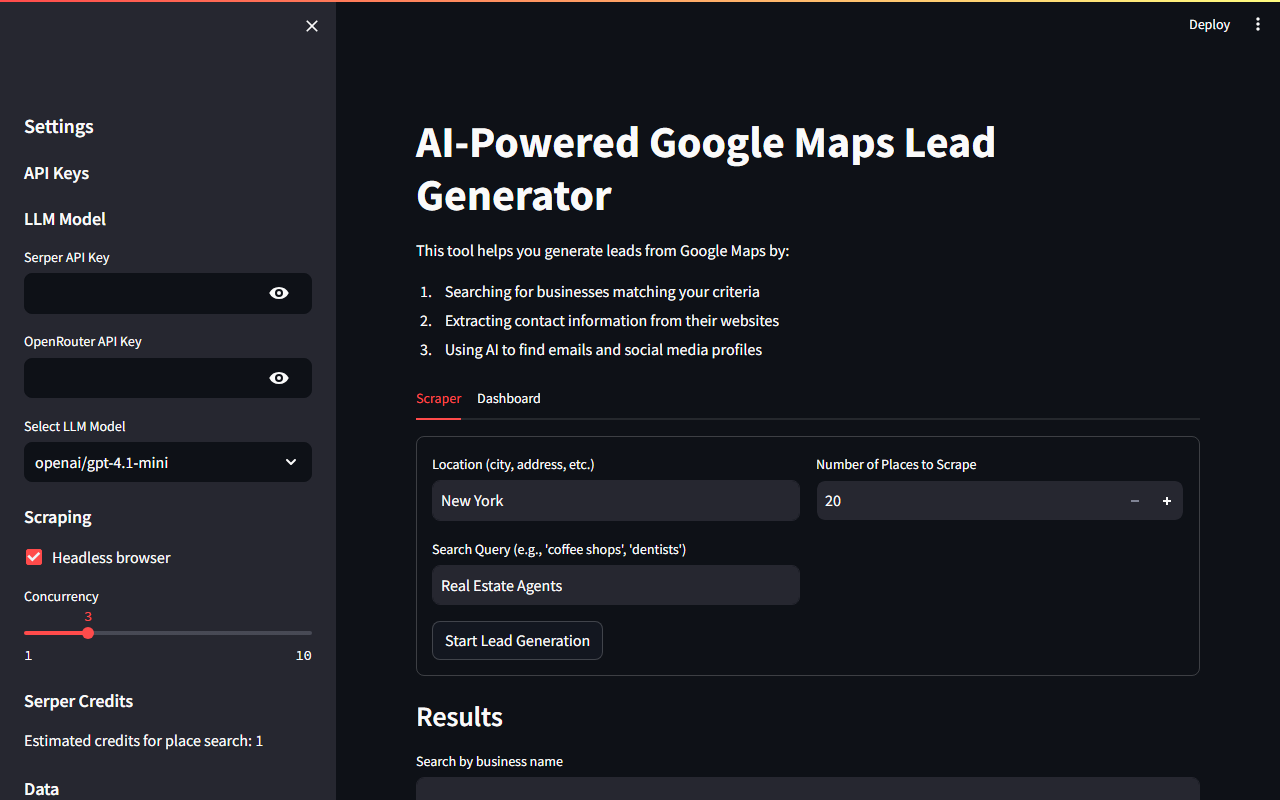
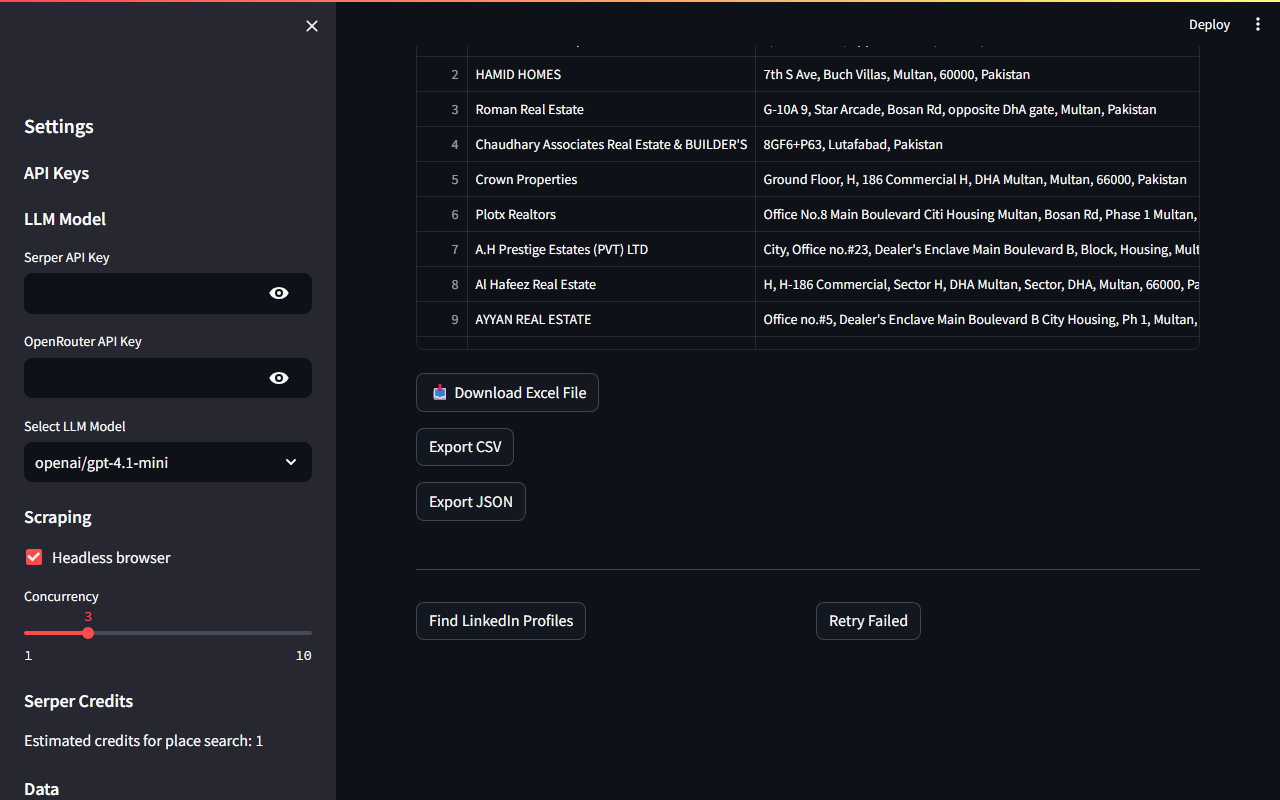
fix: replace duplicate screenshots with distinct scraper form and results views

Changed region(s): [[0.3125, 0.0625, 0.9375, 0.8125], [0.3125, 0.9375, 0.9375, 1.0], [0.3125, 0.875, 0.4062, 0.9062]]

diff --git a/README.md b/README.md
@@ -1,7 +1,10 @@
 # AI-Powered Google Maps Lead Generator
 
-![Screenshot 1](screenshot1.png)
-![Screenshot 2](screenshot2.png)
+### Scraper — Input Form
+![Scraper Form](screenshot1.png)
+
+### Results & Dashboard
+![Results and Export](screenshot2.png)
 
 ## What it does
 This tool helps you generate business leads from Google Maps by:
